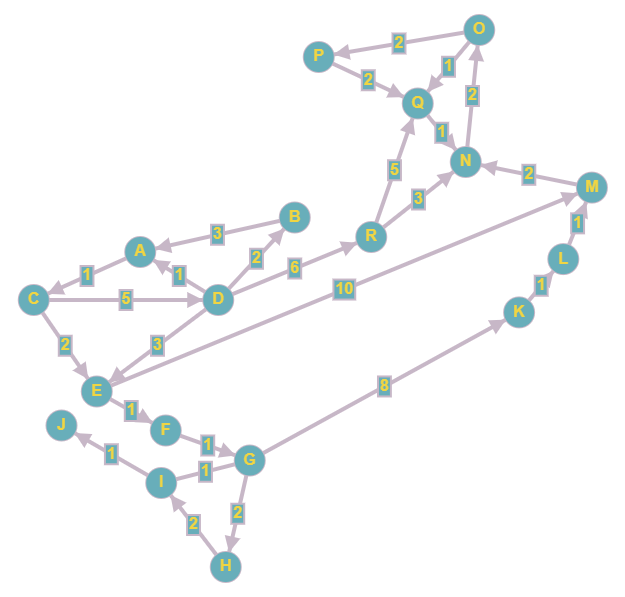
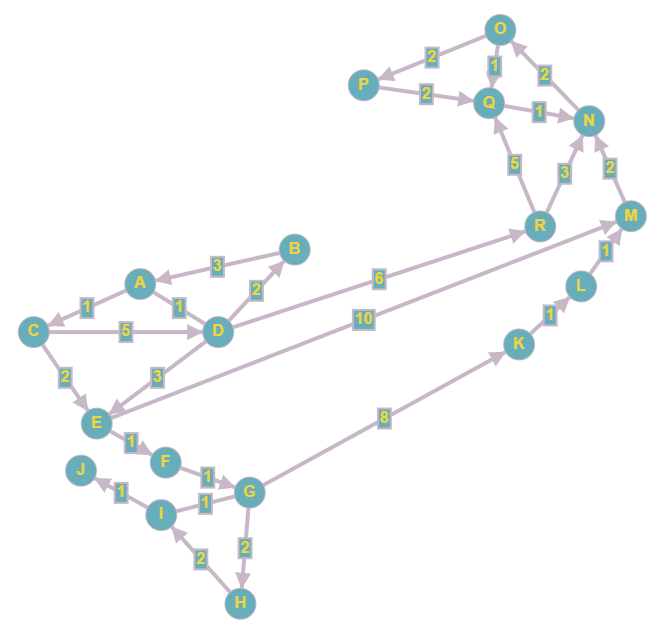
ei vaihdeta bussia jos ellei tarvetta

Changed region(s): [[0.0304, 0.0, 0.9728, 0.995]]

diff --git a/src/canvas/data.js b/src/canvas/data.js
@@ -1,24 +1,24 @@
 const canvasData = {
     'AC':
     {
-        start: [125, 259],
-        end: [47, 294]
+        start: [125, 291],
+        end: [47, 324]
     },
     'CD': {
-        start: [49, 300],
-        end: [203, 300]
+        start: [49, 331],
+        end: [203, 333]
     },
     'CE': {
-        start: [42, 313],
-        end: [87, 378]
+        start: [42, 345],
+        end: [87, 410]
     },
     'DB': {
-        start: [228, 288],
-        end: [286, 228]
+        start: [228, 320],
+        end: [286, 261]
     },
     'BA': {
-        start: [279, 220],
-        end: [156, 248]
+        start: [279, 252],
+        end: [156, 281]
     },
     'DE': {
         start: [206, 309],
@@ -34,67 +34,67 @@ const canvasData = {
     },
     'GH': {
         start: [246, 475],
-        end: [228, 552]
+        end: [241, 587]
     },
     'HI': {
-        start: [216, 554],
-        end: [171, 496]
+        start: [230, 592],
+        end: [171, 526]
     },
     'IJ': {
-        start: [148, 474],
-        end: [75, 433]
+        start: [147, 507],
+        end: [92, 477]
     },
     'DR': {
-        start: [233, 294],
-        end: [356, 243]
+        start: [233, 326],
+        end: [525, 231]
     },
     'RN': {
-        start: [383, 226],
-        end: [453, 171]
+        start: [547, 210],
+        end: [582, 135]
     },
     'RQ': {
-        start: [377, 221],
-        end: [412, 118]
+        start: [533, 212],
+        end: [495, 118]
     },
     'NO': {
-        start: [466, 146],
-        end: [477, 44]
+        start: [577, 109],
+        end: [511, 41]
     },
     'OQ': {
-        start: [469, 42],
-        end: [427, 91]
+        start: [498, 42],
+        end: [491, 87]
     },
     'OP': {
-        start: [464, 32],
-        end: [334, 55]
+        start: [485, 36],
+        end: [379, 78]
     },
     'PQ': {
-        start: [332, 64],
-        end: [403, 96]
+        start: [379, 87],
+        end: [473, 100]
     },
     'QN': {
-        start: [427, 115],
-        end: [455, 149]
+        start: [504, 106],
+        end: [573, 118]
     },
     'EM': {
-        start: [110, 385],
-        end: [577, 194]
+        start: [110, 418],
+        end: [616, 222]
     },
     'GK': {
-        start: [263, 452],
-        end: [504, 320]
+        start: [263, 485],
+        end: [504, 352]
     },
     'KL': {
-        start: [529, 300],
-        end: [553, 271]
+        start: [529, 334],
+        end: [569, 298]
     },
     'LM': {
-        start: [569, 244],
-        end: [586, 202]
+        start: [590, 273],
+        end: [622, 230]
     },
     'MN': {
-        start: [575, 184],
-        end: [480, 165]
+        start: [624, 202],
+        end: [595, 135]
     }
 
 }

diff --git a/src/routes/model.js b/src/routes/model.js
@@ -129,8 +129,12 @@ class WeightedGraph {
                     vertex = previous[vertex]
                 }
 
+                let prevColor = undefined
+                let color = undefined
                 for(let i = 0; i < path.length; i++) {
-                    pathWithColor.push({ vertex: path[i], color: this.getEdgeColor(path[i], path[i + 1], i > 0 ? path[i - 1] : undefined)})
+                    color = this.getEdgeColor(path[i], path[i + 1], prevColor)
+                    pathWithColor.push({ vertex: path[i], color})
+                    prevColor = color
                 }
 
                 return { pathWithColor, distance: distances[finish] }
@@ -153,14 +157,17 @@ class WeightedGraph {
         return null
     }
 
-    getEdgeColor(v1, v2, prev) {
-        console.log(this.adjacensyList[v1], 'pöööö', v1)
+    getEdgeColor(v1, v2, prevColor) {
+        let returnColor = []
         for(const vertex of this.adjacensyList[v1]) {
             if (vertex.node === v2)
-                return vertex.color
+                returnColor.push(vertex.color)
         }
 
-        return undefined
+        if(returnColor.includes(prevColor))
+            return prevColor
+
+        return returnColor[0]
     }
 }
 

diff --git a/src/canvas/Canvas.js b/src/canvas/Canvas.js
@@ -45,7 +45,7 @@ class Canvas extends React.Component {
     render() {
         return (
             <div style={{ overflow: 'hidden' }}>
-                <canvas ref={this.canvasRef} width={640} height={600} />
+                <canvas ref={this.canvasRef} width={664} height={633} />
 
             </div>
         )

diff --git a/src/App.js b/src/App.js
@@ -2,7 +2,7 @@ import React from 'react';
 import graph from './routes/model'
 import Canvas from './canvas/Canvas'
 
-const distance = graph.shortestPath('C', 'P')
+const distance = graph.shortestPath('B', 'P')
 
 function App() {
   console.log(distance)
